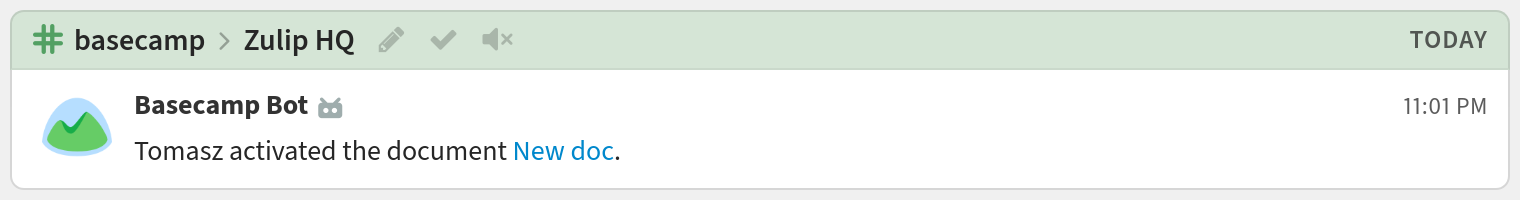
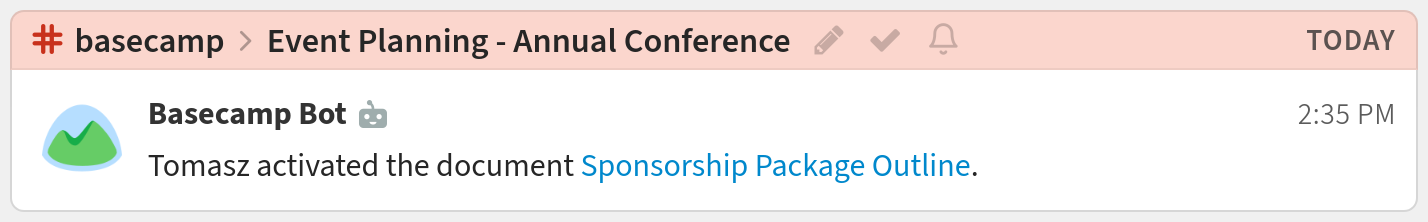
integrations: Refine Basecamp example screenshot.

diff --git a/zerver/webhooks/basecamp/tests.py b/zerver/webhooks/basecamp/tests.py
@@ -9,8 +9,10 @@ class BasecampHookTests(WebhookTestCase):
     WEBHOOK_DIR_NAME = "basecamp"
 
     def test_basecamp_makes_doc_active(self) -> None:
-        expected_message = "Tomasz activated the document [New doc](https://3.basecamp.com/3688623/buckets/2957043/documents/432522214)."
-        self._send_and_test_message("doc_active", expected_message)
+        expected_message = "Tomasz activated the document [Sponsorship Package Outline](https://3.basecamp.com/3688623/buckets/2957043/documents/432522214)."
+        self._send_and_test_message(
+            "doc_active", expected_message, "Event Planning - Annual Conference"
+        )
 
     def test_basecamp_makes_doc_archived(self) -> None:
         expected_message = "Tomasz archived the document [new doc](https://3.basecamp.com/3688623/buckets/2957043/documents/434455988)."
@@ -136,5 +138,7 @@ class BasecampHookTests(WebhookTestCase):
         expected_message = "Tomasz created the [comment](https://3.basecamp.com/3688623/buckets/2957043/todos/427055624#__recording_427058780) of the task [New task](https://3.basecamp.com/3688623/buckets/2957043/todos/427055624)."
         self._send_and_test_message("comment_created", expected_message)
 
-    def _send_and_test_message(self, fixture_name: str, expected_message: str) -> None:
-        self.check_webhook(fixture_name, TOPIC_NAME, expected_message)
+    def _send_and_test_message(
+        self, fixture_name: str, expected_message: str, topic_name: str = TOPIC_NAME
+    ) -> None:
+        self.check_webhook(fixture_name, topic_name, expected_message)
